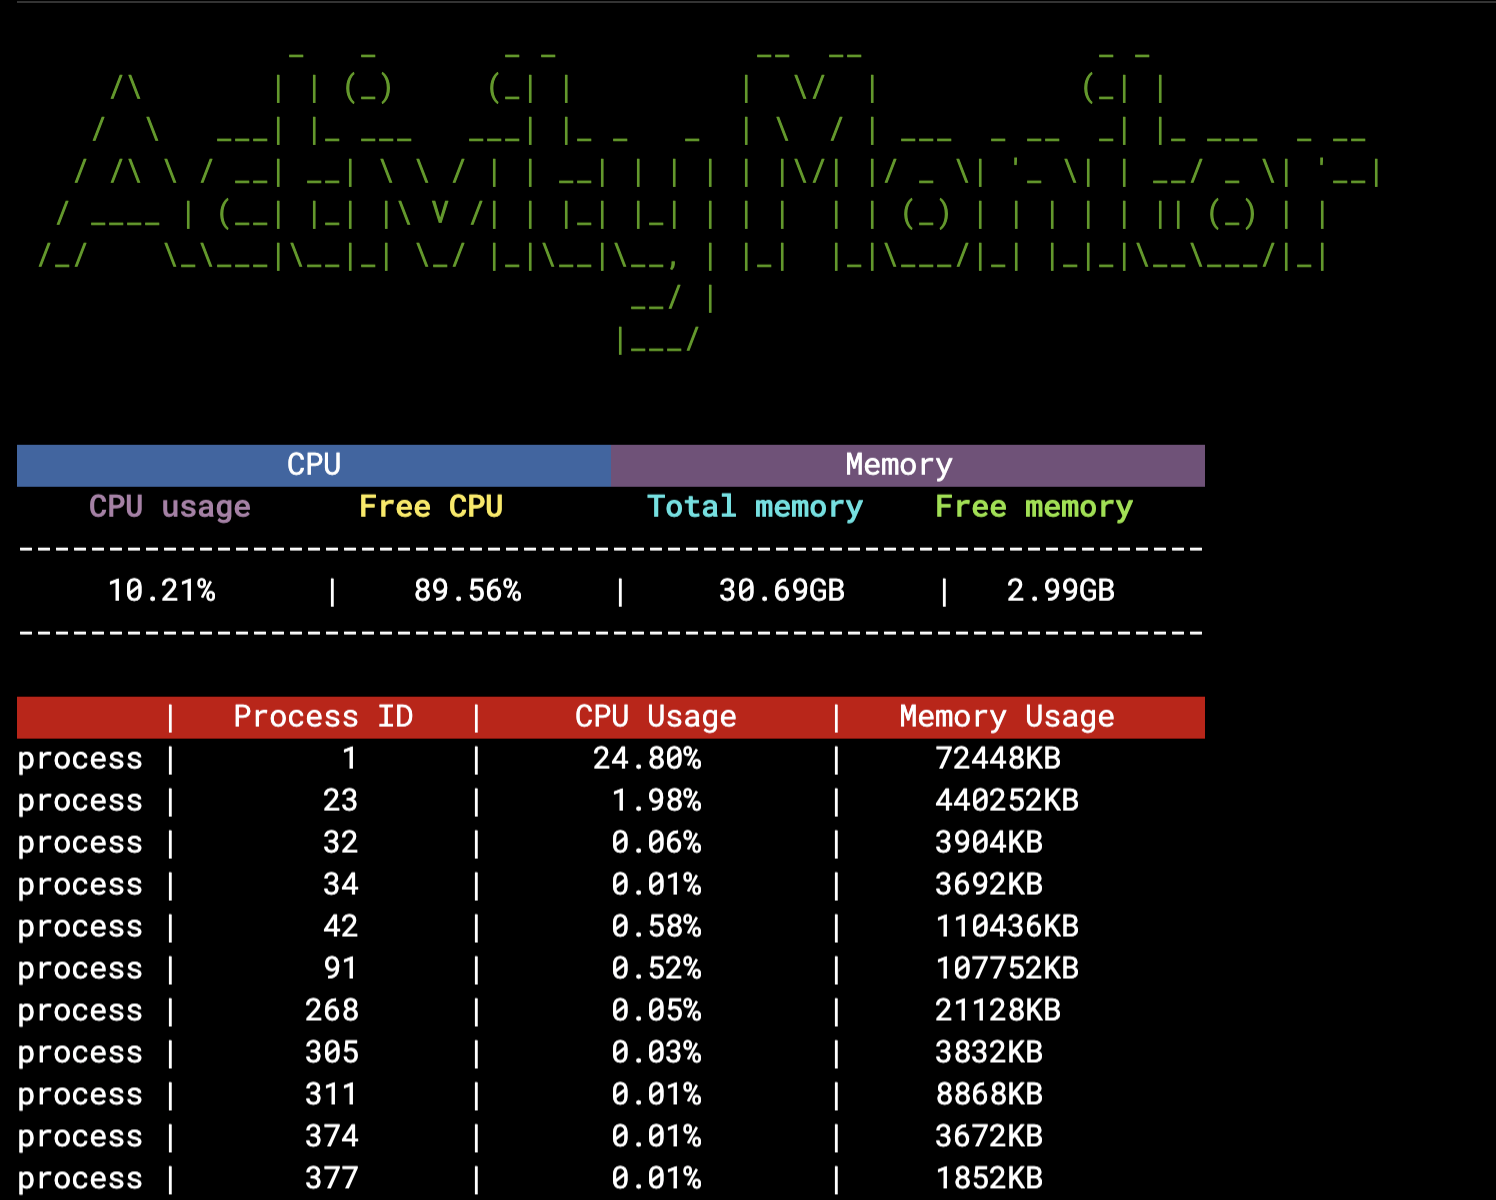
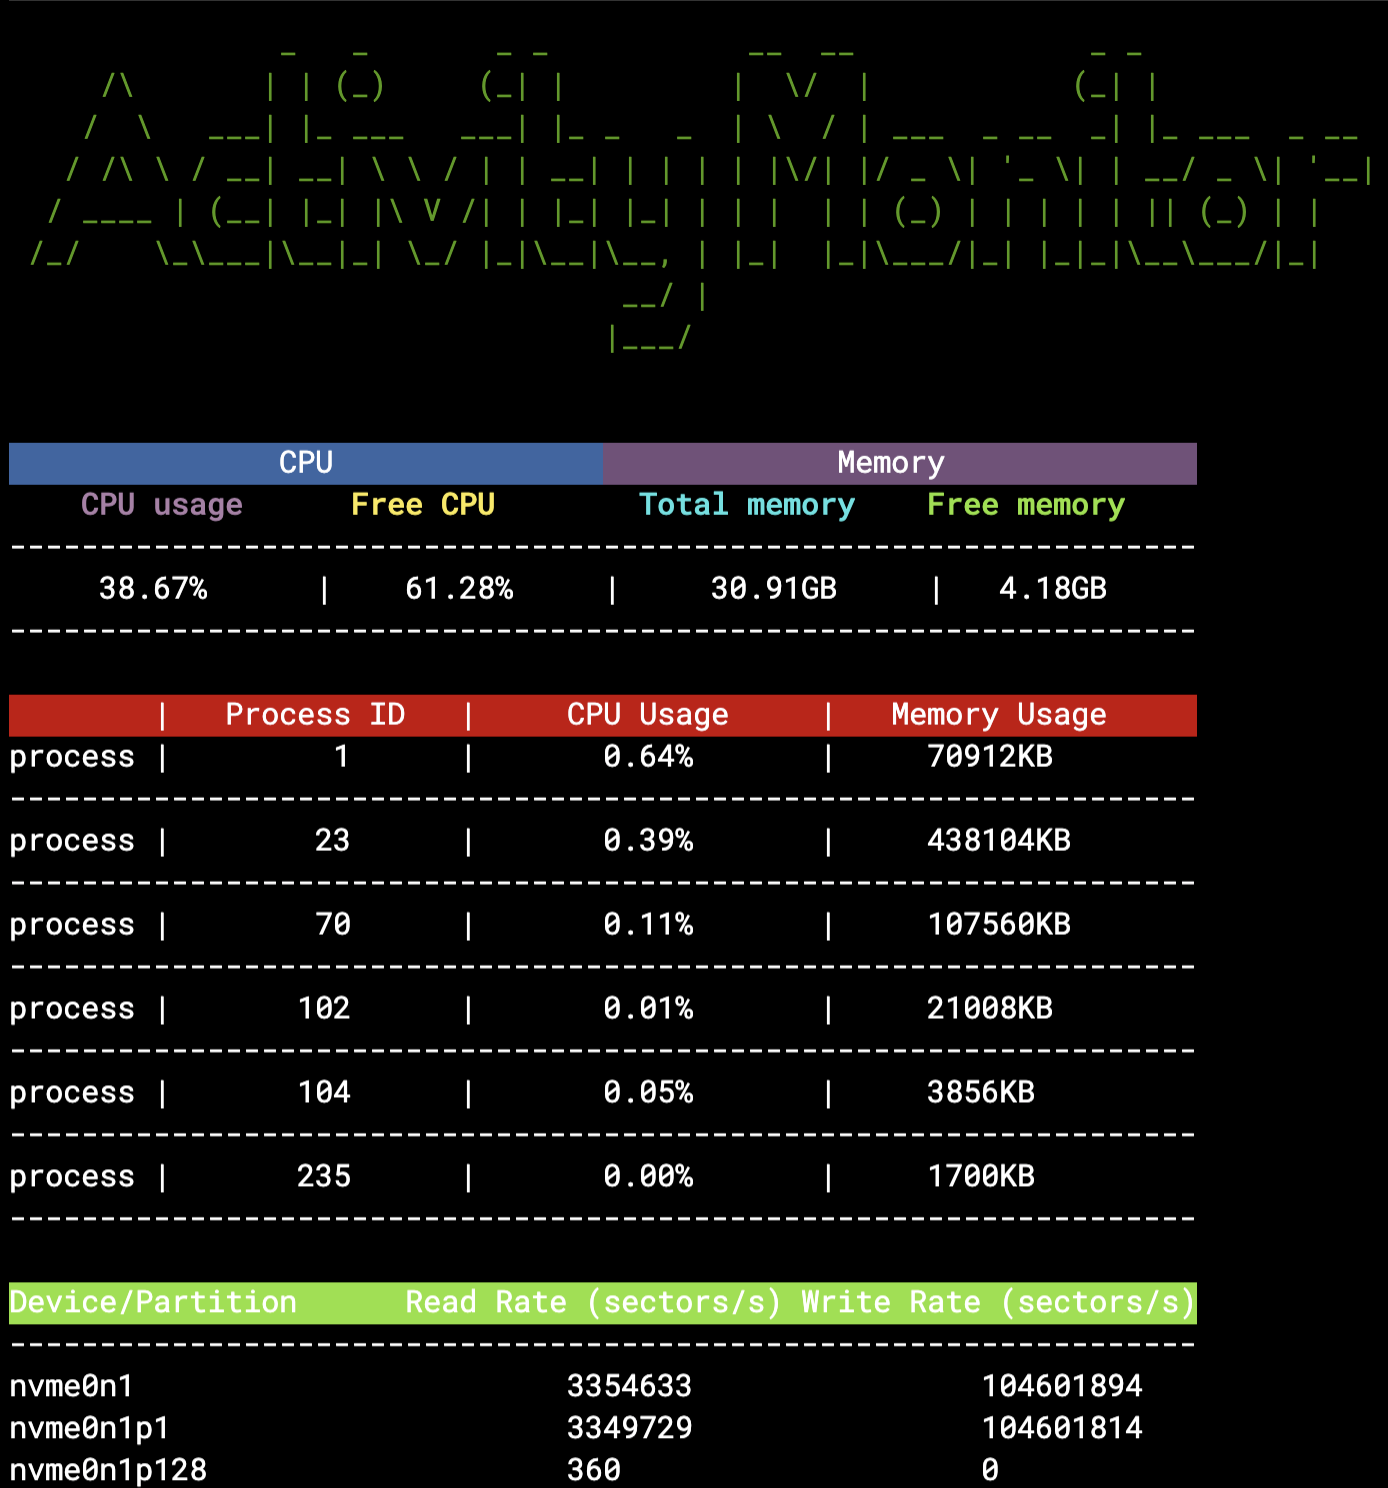
update screenshot

diff --git a/disk.c b/disk.c
@@ -1,3 +1,15 @@
+/* ************************************************************************** */
+/*                                                                            */
+/*                                                        :::      ::::::::   */
+/*   disk.c                                             :+:      :+:    :+:   */
+/*                                                    +:+ +:+         +:+     */
+/*   By: aajaanan <aajaanan@student.42abudhabi.ae>  +#+  +:+       +#+        */
+/*                                                +#+#+#+#+#+   +#+           */
+/*   Created: 2023/07/10 13:47:41 by aajaanan          #+#    #+#             */
+/*   Updated: 2023/07/10 14:53:09 by aajaanan         ###   ########.fr       */
+/*                                                                            */
+/* ************************************************************************** */
+
 //
 // Created by Anas Ajaanan on 7/10/23.
 //
@@ -13,7 +25,7 @@ void display_disk_stats() {
 		return;
 	}
 
-	printf(REDHB "\n%-21s %-17s %-16s\n", "Device/Partition", "Read Rate (sectors/s)", "Write Rate (sectors/s)" reset);
+	printf(GRNHB "\n%-21s %-17s %-16s\n", "Device/Partition", "Read Rate (sectors/s)", "Write Rate (sectors/s)" reset);
 	printf("------------------------------------------------------------------\n");
 
 	char line[256];
